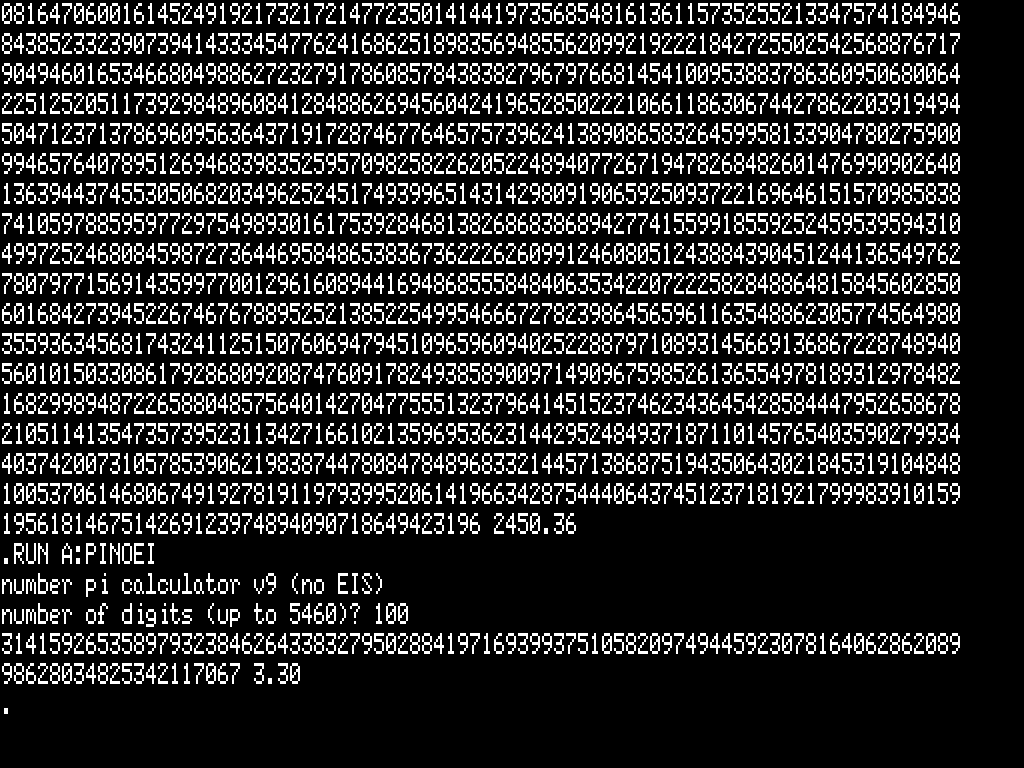
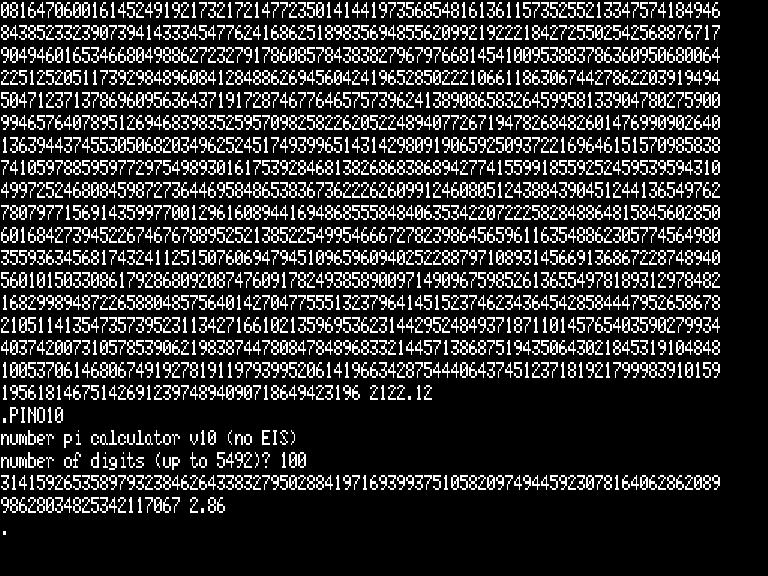
pi-spigot: results for the BK v8, BK NOEIS RT-11 v10

Changed region(s): [[0.0, 0.0, 0.9375, 0.9062]]

diff --git a/pi-spigot-benchmark/pi-spigot-benchmark.html b/pi-spigot-benchmark/pi-spigot-benchmark.html
@@ -362,10 +362,11 @@ ma.push({computer: "Atari 800XL/NTSC", OS: "ROM Basic", driver: "atari800xl-6", 
 ma.push({computer: "Atari 800XL/PAL", OS: "ROM Basic", driver: "atari800xl-6", connection: "display", t100: 1.93, t1000: 187.1, t3000: 1670.48, maxd: 4536, source: "atari800 4.2.0", estimation: false, comment: "", cpu: "6502", freq: 1.77, year: 1983, href: "https://en.wikipedia.org/wiki/Atari_8-bit_family", cpu100: -1, cpu1000: -1, cpu3000: -1, fixed: 0, screenshot: "rp/atari800xl-pal.png"})
 ma.push({computer: "Sanyo MPC-25FD", OS: "ROM Basic", driver: "msx-9", connection: "display", t100: 2.03, t1000: 186.27, t3000: 1668.82, maxd: 3000, source: "openmsx 0.18.0", estimation: false, comment: "MSX 1, 2, 2+", cpu: "Z80", freq: 3.58, year: 1985, href: "https://en.wikipedia.org/wiki/MSX", cpu100: -1, cpu1000: -1, cpu3000: -1, fixed: 0, screenshot: "rp/msx-basic.png"})
 ma.push({computer: "Sanyo MPC-25FD", OS: "MSX DOS", driver: "cpm22bdos-16-msx", connection: "display", t100: 2.17, t1000: 193.0, t3000: 1721.87, maxd: 7424, source: "openmsx 0.18.0", estimation: false, comment: "MSX 2", cpu: "Z80", freq: 3.58, year: 1985, href: "https://en.wikipedia.org/wiki/MSX", cpu100: -1, cpu1000: -1, cpu3000: -1, fixed: 0, screenshot: "rp/msx-dos.png"})
-ma.push({computer: "&#x411;K0011", OS: "&#x411;K0010 OS", driver: "bk11-7", connection: "display", t100: 2.73, t1000: 240.05, t3000: 2143, maxd: 4412, source: "real iron (thanks to Manwe)", estimation: false, comment: "", cpu: "K1801BM1", freq: 4, year: 1989, href: "https://en.wikipedia.org/wiki/Electronika_BK", cpu100: -1, cpu1000: -1, cpu3000: -1, fixed: 0, screenshot: "rp/bk0011m.png"})
-ma.push({computer: "&#x411;K0010", OS: "ROM Monitor", driver: "bk10-7", connection: "display", t100: 2.86, t1000: 252.33, t3000: 2253.44, maxd: 3824, source: "real iron (thanks to Manwe)", estimation: false, comment: "", cpu: "K1801BM1", freq: 3, year: 1985, href: "https://en.wikipedia.org/wiki/Electronika_BK", cpu100: -1, cpu1000: -1, cpu3000: -1, fixed: 0, screenshot: "rp/bk0010.png"})
+ma.push({computer: "&#x411;K0011", OS: "&#x411;K0010 ROM emu", driver: "bk11-8", connection: "display", t100: 2.63, t1000: 230.7, t3000: 2058.75, maxd: 4388, source: "gid-emu v4.3.2305.8825", estimation: false, comment: "", cpu: "K1801BM1", freq: 4, year: 1989, href: "https://en.wikipedia.org/wiki/Electronika_BK", cpu100: -1, cpu1000: -1, cpu3000: -1, fixed: 0, screenshot: "rp/bk0011m.png"})
+ma.push({computer: "&#x411;K0010", OS: "ROM Monitor", driver: "bk10-8", connection: "display", t100: 2.85, t1000: 248.14, t3000: 2213.53, maxd: 3804, source: "BK2010 v0.7", estimation: false, comment: "", cpu: "K1801BM1", freq: 3, year: 1985, href: "https://en.wikipedia.org/wiki/Electronika_BK", cpu100: -1, cpu1000: -1, cpu3000: -1, fixed: 0, screenshot: "rp/bk0010.png"})
+ma.push({computer: "&#x411;K0011", OS: "ROM Monitor", driver: "bk11-bos-8", connection: "display", t100: 2.71, t1000: 231.48, t3000: 2060.9, maxd: 4240, source: "gid-emu v4.3.2305.8825", estimation: false, comment: "", cpu: "K1801BM1", freq: 4, year: 1989, href: "https://en.wikipedia.org/wiki/Electronika_BK", cpu100: -1, cpu1000: -1, cpu3000: -1, fixed: 0, screenshot: "rp/bk0011m-bos.png"})
 ma.push({computer: "Amstrad CPC6128", OS: "CP/M 2.2", driver: "cpm22bios-8080-7-cpc", connection: "display", t100: 2.28, t1000: 187.11, t3000: 1655.35, maxd: 5848, source: "ep128emu 2.0.11", estimation: false, comment: "", cpu: "Z80", freq: 4, year: 1985, href: "https://en.wikipedia.org/wiki/Amstrad_CPC", cpu100: 2.08, cpu1000: 185.1, cpu3000: 1649.05, fixed: 0, screenshot: "rp/cpc6128-cpm22-8080.png"})
-ma.push({computer: "&#x411;K0011", OS: "RT11SJ", driver: "rt11-noeis-9", connection: "display", t100: 3.28, t1000: 275.62, t3000: 2450.22, maxd: 5460, source: "gid BK emulator v3.10", estimation: false, comment: "", cpu: "K1801BM1", freq: 4, year: 1989, href: "https://en.wikipedia.org/wiki/Electronika_BK", cpu100: -1, cpu1000: -1, cpu3000: -1, fixed: 0, screenshot: "rp/bk0011m-rt11.png"})
+ma.push({computer: "&#x411;K0011", OS: "RT11SJ", driver: "rt11-noeis-10", connection: "display", t100: 2.86, t1000: 238.9, t3000: 2122.12, maxd: 5492, source: "gid-emu v4.3.2305.8825", estimation: false, comment: "", cpu: "K1801BM1", freq: 4, year: 1989, href: "https://en.wikipedia.org/wiki/Electronika_BK", cpu100: -1, cpu1000: -1, cpu3000: -1, fixed: 0, screenshot: "rp/bk0011m-rt11.png"})
 ma.push({computer: "Commodore VIC-20 (29KB RAM)/PAL", OS: "ROM Basic", driver: "vic20-3", connection: "display", t100: 2.85, t1000: 278.45, t3000: 2486.28, maxd: 3472, source: "VICE 3.3", estimation: false, comment: "", cpu: "6502", freq: 1.11, year: 1981, href: "https://en.wikipedia.org/wiki/Commodore_VIC-20", cpu100: 2.8, cpu1000: 277.58, cpu3000: 2483.15, fixed: 0, screenshot: "rp/vic20-pal.png"})
 ma.push({computer: "Tandy TRS-80 model 100", OS: "ROM Basic", driver: "tandy100-2", connection: "display", t100: 3.25, t1000: 291.58, t3000: 2563.17, maxd: 4128, source: "real iron (thanks to Twospruces &amp; micahcowan)", estimation: false, comment: "", cpu: "80C85", freq: 2.4576, year: 1983, href: "https://en.wikipedia.org/wiki/TRS-80_Model_100", cpu100: 3.06, cpu1000: 281.96, cpu3000: 2529.41, fixed: 0, screenshot: "rp/tandy100.jpg"})
 ma.push({computer: "Commodore VIC-20 (29KB RAM)/NTSC", OS: "ROM Basic", driver: "vic20-3", connection: "display", t100: 3.1, t1000: 302.25, t3000: 2698.78, maxd: 3472, source: "VICE 3.3", estimation: false, comment: "", cpu: "6502", freq: 1.02, year: 1981, href: "https://en.wikipedia.org/wiki/Commodore_VIC-20", cpu100: -1, cpu1000: -1, cpu3000: -1, fixed: 0, screenshot: "rp/vic20-ntsc.png"})
@@ -379,7 +380,7 @@ ma.push({computer: "Tandy TRS-80 MC-10", OS: "ROM Basic", driver: "mc10-1", conn
 ma.push({computer: "Apple IIc", OS: "Applesoft Basic", driver: "apple2c-65c02-2", connection: "display", t100: 3.1, t1000: 305.33, t3000: 2729.72, maxd: 4676, source: "MAME 0.229", estimation: false, comment: "", cpu: "65C02", freq: 1.02, year: 1984, href: "https://en.wikipedia.org/wiki/Apple_IIc", cpu100: -1, cpu1000: -1, cpu3000: -1, fixed: 0, screenshot: "rp/apple2c.png"})
 ma.push({computer: "Apple IIe", OS: "Applesoft Basic", driver: "apple2e-2", connection: "display", t100: 3.17, t1000: 311.58, t3000: 2784.5, maxd: 4748, source: "MAME 0.229", estimation: false, comment: "", cpu: "6502", freq: 1.02, year: 1983, href: "https://en.wikipedia.org/wiki/Apple_IIe", cpu100: -1, cpu1000: -1, cpu3000: -1, fixed: 0, screenshot: ""})
 ma.push({computer: "Kop&#x432;e&#x442;", OS: "CP/M 2.2", driver: "cpm22bios-8080-7-korvet", connection: "display", t100: 2.68, t1000: 230.54, t3000: 2045.66, maxd: 7496, source: "Emu80 4.0.457", estimation: false, comment: "emu difference is below below 0.55% for Sancho45's computer", cpu: "8080", freq: 2.5, year: 1987, href: "https://en.wikipedia.org/wiki/Corvette_(computer)", cpu100: 2.64, cpu1000: 229.92, cpu3000: 2043.5, fixed: 0, screenshot: "rp/korvet.png"})
-ma.push({computer: "Kop&#x432;e&#x442;", OS: "CP/M 2.2", driver: "cpm22bdos-8080-6-korvet", connection: "display", t100: 2.72, t1000: 230.82, t3000: 2046.52, maxd: 6984, source: "Emu80 4.0.457", estimation: true, comment: "", cpu: "8080", freq: 2.5, year: 1987, href: "https://en.wikipedia.org/wiki/Corvette_(computer)", cpu100: -1, cpu1000: -1, cpu3000: -1, fixed: 0, screenshot: "rp/korvet-bdos.png"})
+ma.push({computer: "Kop&#x432;e&#x442;", OS: "CP/M 2.2", driver: "cpm22bdos-8080-6-korvet", connection: "display", t100: 2.72, t1000: 230.82, t3000: 2046.52, maxd: 6984, source: "Emu80 4.0.457", estimation: false, comment: "", cpu: "8080", freq: 2.5, year: 1987, href: "https://en.wikipedia.org/wiki/Corvette_(computer)", cpu100: -1, cpu1000: -1, cpu3000: -1, fixed: 0, screenshot: "rp/korvet-bdos.png"})
 ma.push({computer: "Tandy TRS-80 Model I", OS: "TRSDOS 2.3", driver: "trsdos-m1-3", connection: "display", t100: 3.38, t1000: 310.03, t3000: 2779.63, maxd: 6032, source: "trs80gp v2.5.3", estimation: false, comment: "", cpu: "Z80", freq: 1.77, year: 1977, href: "https://en.wikipedia.org/wiki/TRS-80", cpu100: -1, cpu1000: -1, cpu3000: -1, fixed: 0, screenshot: "rp/trs-80-m1.png"})
 ma.push({computer: "Tandy TRS-80 Model II", OS: "Pickles &amp; Trout CP/M", driver: "cpm22pt-bios-17", connection: "display", t100: 1.47, t1000: 134.8, t3000: 1207.22, maxd: 8192, source: "trs80gp v2.5.3", estimation: false, comment: "", cpu: "Z80", freq: 4.00, year: 1979, href: "https://en.wikipedia.org/wiki/TRS-80_Model_II", cpu100: -1, cpu1000: -1, cpu3000: -1, fixed: 0, screenshot: "rp/trs-80-m2.png"})
 ma.push({computer: "Tandy TRS-80 Model III", OS: "TRSDOS 1.3", driver: "trsdos-m3-3", connection: "display", t100: 2.9, t1000: 264.87, t3000: 2371.9, maxd: 6032, source: "trs80gp v2.5.3", estimation: false, comment: "", cpu: "Z80", freq: 2.03, year: 1980, href: "https://en.wikipedia.org/wiki/TRS-80", cpu100: -1, cpu1000: -1, cpu3000: -1, fixed: 0, screenshot: "rp/trs-80-m3.png"})
@@ -524,14 +525,17 @@ ma.sort(function(a, b){ return a.t3000 - b.t3000 })
 <tr><td>mc10-1<td>6803<td align=right>338<td align=right>2516<sup>*8</sup>
 <tr><td>arm2-2<td>ARM2<td align=right>516<td align=right>1475
 <tr><td>arm1-4<td>ARM1<td align=right>540<td align=right>1680
-<tr><td>bk11-7<td>PDP-11<td align=right>646<td align=right>1446
-<tr><td>bk10-7<td>PDP-11<td align=right>646<td align=right>1446
+<tr><td>bk11-8<td>PDP-11<td align=right>834<td align=right>1638
+<tr><td>bk11-bos-8<td>PDP-11<td align=right>834<td align=right>1600
+<tr><td>bk10-8<td>PDP-11<td align=right>834<td align=right>1602
 <tr><td>pdp11-unix7-noeis-1<td>PDP-11<td align=right>734<td align=right>1258<sup>*4</sup>
-<tr><td>rt11-noeis-7<td>PDP-11<td align=right>734<td align=right>1476<sup>*2</sup>
+<tr><td>rt11-noeis-10<td>PDP-11<td align=right>838<td align=right>2216<sup>*2</sup>
 <tr><td>scpu64-7<td>65816<td align=right>250+768=1018<sup>*5</sup><td align=right>[1764+228+2]=1994<sup>*7</sup>
 <tr><td>apple2gs-1<td>65816<td align=right>250+768=1018<sup>*5</sup><td align=right>1906+416=2322<sup>*1</sup>
-<tr><td>bbc-z80-6<td>Z80<td align=right>1078+768=1846<sup>*5</sup><td align=right>2048+289=2337<sup>*1</sup>
 <tr><td>msx-9<td>Z80<td align=right>725+768=1493<sup>*5</sup><td align=right>1799+452=2251<sup>*1</sup>
+<tr><td>abc800-3<td>Z80<td align=right>725+768=1493<sup>*5</sup><td align=right>4431<sup>*8</sup>
+<tr><td>zx-4<td>Z80<td align=right>725+768=1493<sup>*5</sup><td align=right>4666<sup>*3</sup>
+<tr><td>bbc-z80-6<td>Z80<td align=right>1078+768=1846<sup>*5</sup><td align=right>2048+289=2337<sup>*1</sup>
 <tr><td>cpm22bios-17<td>Z80<td align=right>1078+768=1846<sup>*5</sup><td align=right>2534&mdash;2570
 <tr><td>trsdos-m1-3<td>Z80<td align=right>1078+768=1848<sup>*5</sup><td align=right>2544
 <tr><td>trsdos-m3-3<td>Z80<td align=right>1078+768=1848<sup>*5</sup><td align=right>2546
@@ -540,8 +544,6 @@ ma.sort(function(a, b){ return a.t3000 - b.t3000 })
 <tr><td>cpc-10<td>Z80<td align=right>1078+768=1848<sup>*5</sup><td align=right>2060+575=2635<sup>*1</sup>
 <tr><td>c128-z80-2<td>Z80<td align=right>1078+768=1848<sup>*5</sup><td align=right>[2304+511+2]=2817<sup>*7</sup>
 <tr><td>cpm22bdos-16<td>Z80<td align=right>1078+768=1848<sup>*5</sup><td align=right>2541&mdash;2807
-<tr><td>zx-4<td>Z80<td align=right>725+768=1493<sup>*5</sup><td align=right>4666<sup>*3</sup>
-<tr><td>abc800-3<td>Z80<td align=right>725+768=1493<sup>*5</sup><td align=right>4431<sup>*8</sup>
 <tr><td>tandy100-1<td>8085<td align=right>992+768=1760<sup>*5</sup><td align=right>2054+378=2432<sup>*1</sup>
 <tr><td>cpm22bios-8080-7<td>8080<td align=right>1832+768=2260<sup>*5</sup><td align=right>3320&ndash;3325
 <tr><td>vic20-3<td>6502<td align=right>2353+768=3121<sup>*5*6</sup><td align=right>[3497+264+2]=3773<sup>*7</sup>
